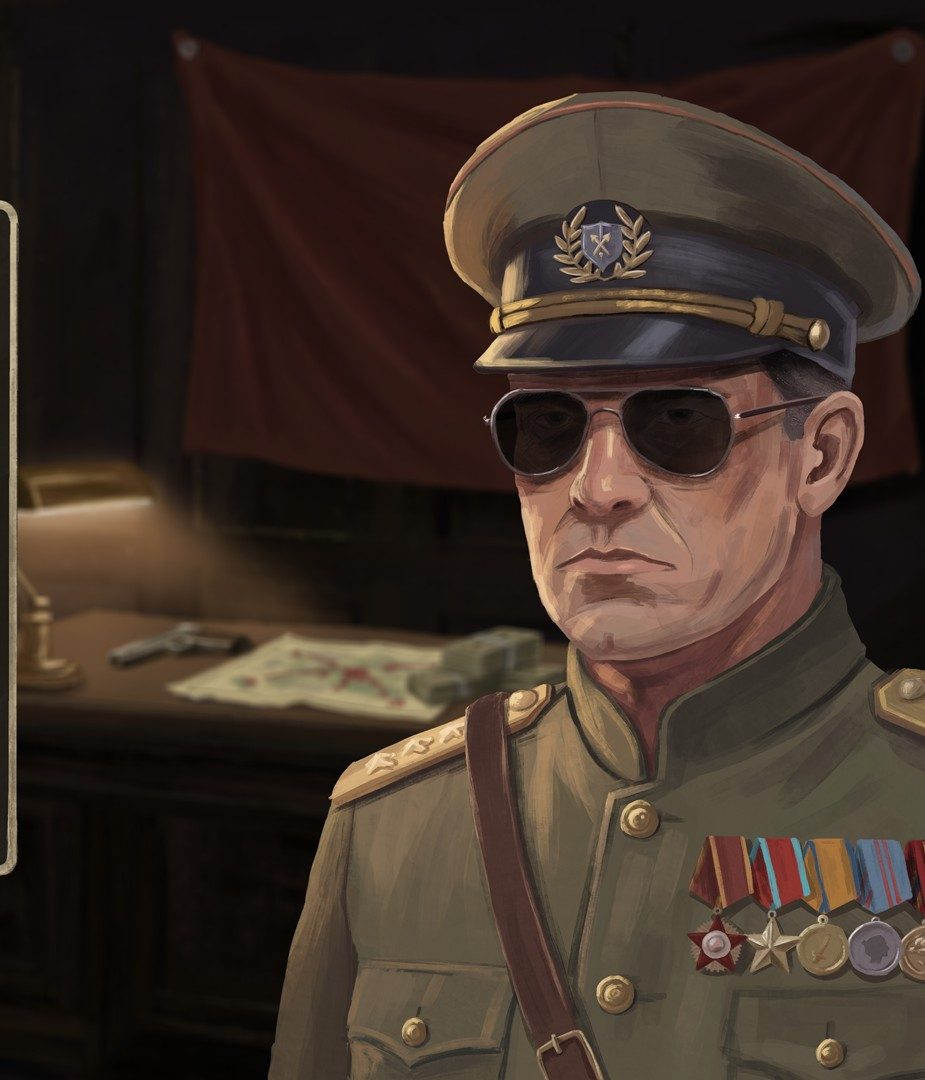
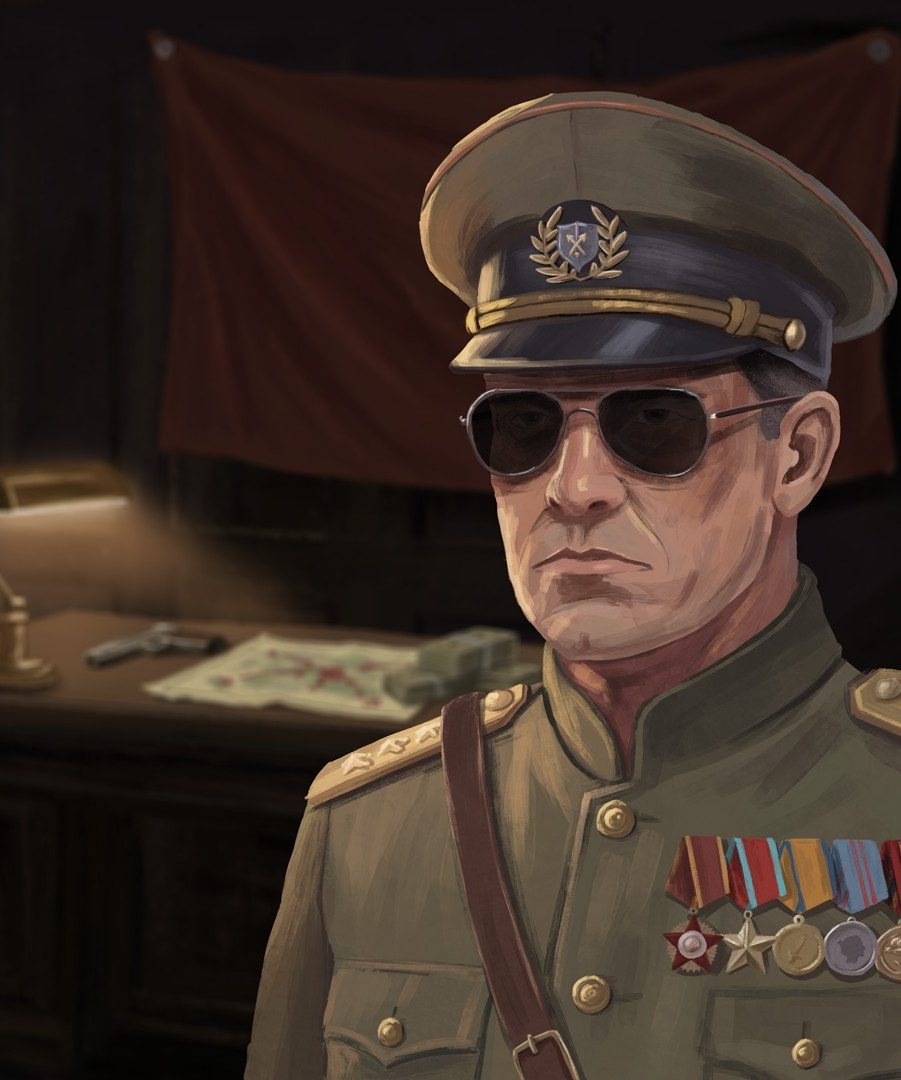
Remove the hard edge left of the general on wide screens
The hero image carried a dark strip from the art it was cropped from,
and on screens wider than about 1500 px the shading no longer covered
the image's left edge, so it showed as a vertical line next to the
headline. The strip is trimmed off and the image's left edge now fades
out by itself, whatever the screen width.

Claude-Session: https://claude.ai/code/session_012oAXxYY9oTTzFiHFntXhS5

diff --git a/public/assets/css/style.css b/public/assets/css/style.css
@@ -107,6 +107,7 @@ img { max-width: 100%; height: auto; }
 /* Hero */
 .hero { position: relative; min-height: 880px; overflow: hidden; display: flex; flex-direction: column; }
 .hero__img { position: absolute; right: 0; top: 0; height: 100%; width: min(60%, 880px); object-fit: cover; object-position: 55% 15%; }
+.hero__img { -webkit-mask-image: linear-gradient(90deg, transparent 0, #000 35%); mask-image: linear-gradient(90deg, transparent 0, #000 35%); }
 .hero__shade { position: absolute; inset: 0; background: linear-gradient(90deg, #0C0B0A 40%, rgba(12,11,10,.7) 52%, rgba(12,11,10,0) 72%), linear-gradient(0deg, #0C0B0A 2%, rgba(12,11,10,0) 34%), linear-gradient(180deg, rgba(12,11,10,.75) 0%, rgba(12,11,10,0) 16%); }
 .hero__inner { position: relative; width: 100%; flex: 1; display: flex; flex-direction: column; }
 .hero__body { flex: 1; display: flex; flex-direction: column; justify-content: center; max-width: 760px; padding: 40px 0 60px; }

diff --git a/public/index.html b/public/index.html
@@ -23,7 +23,7 @@
 <link rel="preload" href="/assets/fonts/archivo-var.woff2" as="font" type="font/woff2" crossorigin>
 <link rel="preload" href="/assets/fonts/inter-tight-var.woff2" as="font" type="font/woff2" crossorigin>
 <script src="/assets/js/main.js?v=85675676" defer></script>
-<link rel="stylesheet" href="/assets/css/style.css?v=e9ff7a6c">
+<link rel="stylesheet" href="/assets/css/style.css?v=9af86af4">
 </head>
 <body data-page="home">
 <!--@sprite-->
@@ -32,7 +32,7 @@
 <a class="skip-link" href="#main">Skip to content</a>
 
 <header class="hero">
-  <img class="hero__img" src="/assets/img/hero-general.jpg" alt="The general, a valued customer" width="925" height="1080">
+  <img class="hero__img" src="/assets/img/hero-general.jpg" alt="The general, a valued customer" width="901" height="1080">
   <div class="hero__shade" aria-hidden="true"></div>
   <div class="hero__inner wrap">
     <!--@nav-->

diff --git a/public/gallery/index.html b/public/gallery/index.html
@@ -21,7 +21,7 @@
 <meta property="og:image:alt" content="Arms Empire: Profit of War logo">
 <meta name="twitter:card" content="summary_large_image">
 <script src="/assets/js/main.js?v=85675676" defer></script>
-<link rel="stylesheet" href="/assets/css/style.css?v=e9ff7a6c">
+<link rel="stylesheet" href="/assets/css/style.css?v=9af86af4">
 </head>
 <body data-page="gallery">
 <!--@sprite-->

diff --git a/public/privacy/index.html b/public/privacy/index.html
@@ -21,7 +21,7 @@
 <meta property="og:image:alt" content="Arms Empire: Profit of War logo">
 <meta name="twitter:card" content="summary_large_image">
 <script src="/assets/js/main.js?v=85675676" defer></script>
-<link rel="stylesheet" href="/assets/css/style.css?v=e9ff7a6c">
+<link rel="stylesheet" href="/assets/css/style.css?v=9af86af4">
 </head>
 <body data-page="privacy">
 <!--@sprite-->

diff --git a/public/devlog/index.html b/public/devlog/index.html
@@ -21,7 +21,7 @@
 <meta property="og:image:alt" content="Arms Empire: Profit of War logo">
 <meta name="twitter:card" content="summary_large_image">
 <script src="/assets/js/main.js?v=85675676" defer></script>
-<link rel="stylesheet" href="/assets/css/style.css?v=e9ff7a6c">
+<link rel="stylesheet" href="/assets/css/style.css?v=9af86af4">
 </head>
 <body data-page="devlog">
 <!--@sprite-->

diff --git a/public/404.html b/public/404.html
@@ -21,7 +21,7 @@
 <meta property="og:image:alt" content="Arms Empire: Profit of War logo">
 <meta name="twitter:card" content="summary_large_image">
 <script src="/assets/js/main.js?v=85675676" defer></script>
-<link rel="stylesheet" href="/assets/css/style.css?v=e9ff7a6c">
+<link rel="stylesheet" href="/assets/css/style.css?v=9af86af4">
 </head>
 <body data-page="404">
 <!--@sprite-->
